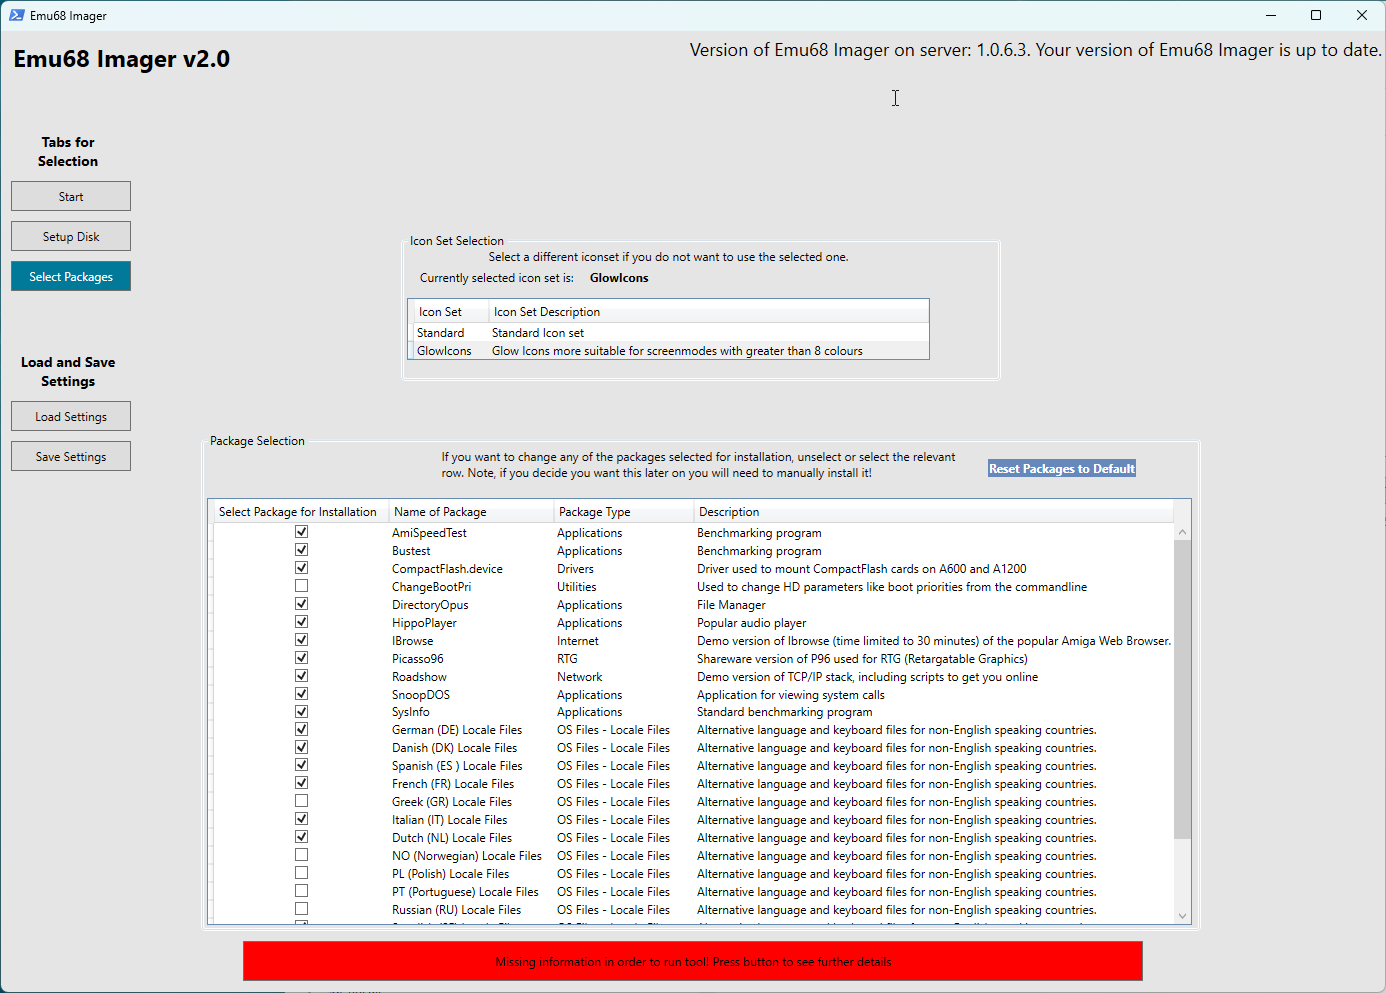
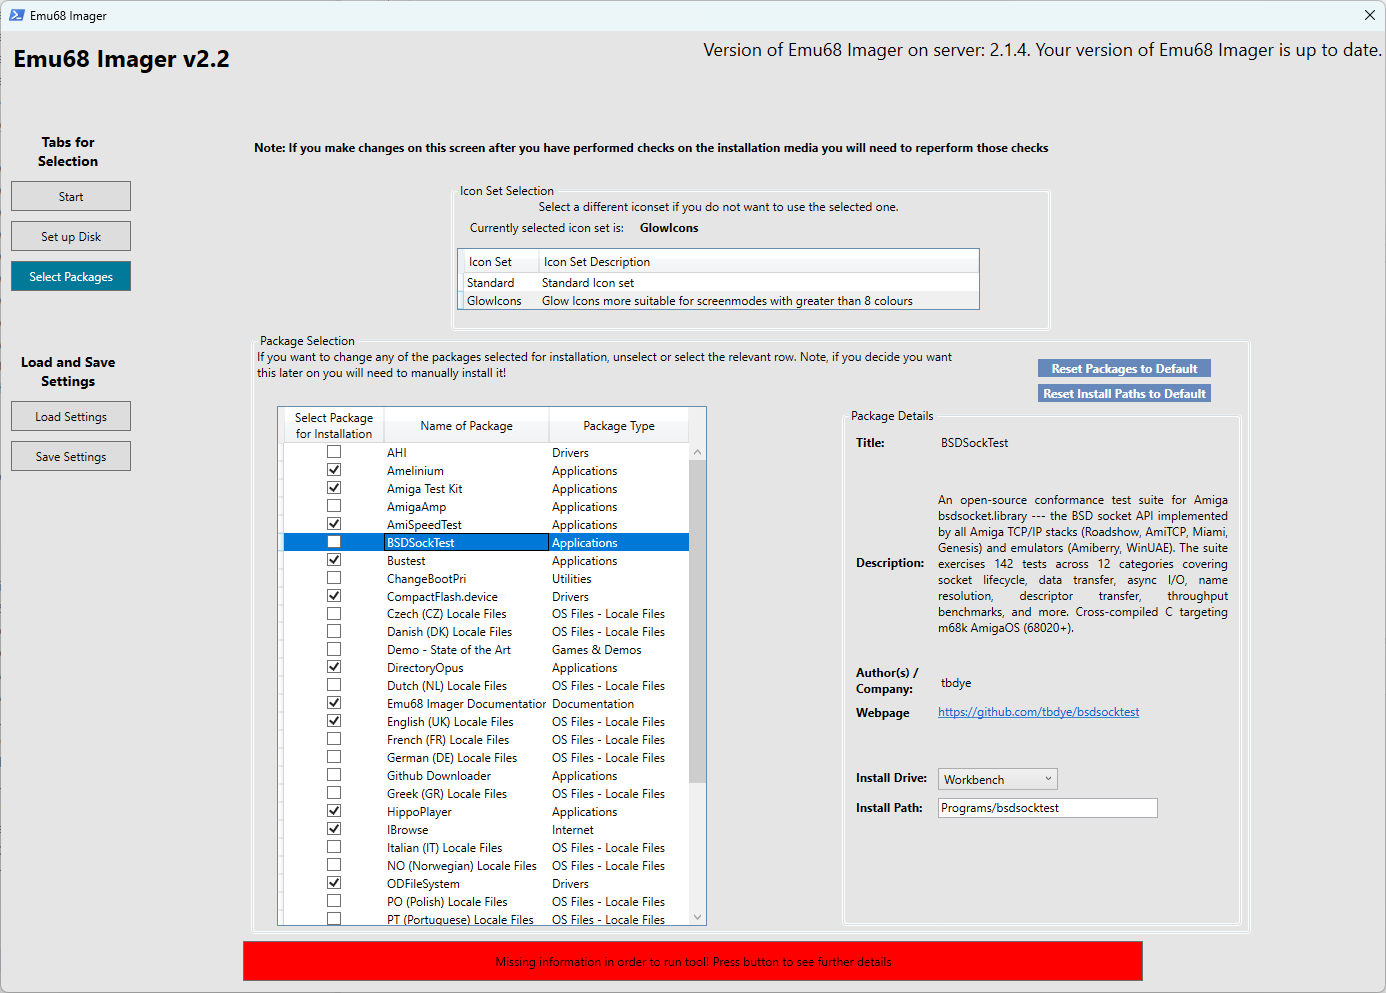
Updates for 2.2

diff --git a/docs/instructions.md b/docs/instructions.md
@@ -34,6 +34,10 @@ This the start page where you set up the environment you wish to install. It als
 
 ![Emu68 Imager Screenshot](images/Version2/StartupPageAdvanced.png)
 
+#### Emu68 Selection
+
+As of version 2.2, you are able to select different Emu68 versions via a drop down menu in the top left (for example either the latest release versus beta versions of Emu68). The available versions will change based on the Emu68 development process.
+
 #### OS Selection
 
 The imager tool supports five flavours of AmigaOS:
@@ -73,7 +77,11 @@ Please note that only A1200 versions of the Kickstart ROMs are supported as thes
 
 You will then need to click the `Check` button and the imager tool will then search this location and locate the correct Kickstart file based on its contents, so file names are not needed to match.
 
+![Checked Roms Screenshot](images/Version2/CheckRoms.png)
+
 When the tool has searched for the Kickstarts, you will be provided with a message showing the Kickstart that has been located or a message advising you that the Kickstart cannot be found.
+
+As of version 2.2, Emu68 Imager will also look for suitable Kickstart ROMs to include within the Devs:Kickstart folder for use in WHDLoad. If any are found they will be copied and renamed in accordance with WHDLoad requirements. 
 
 #### Workbench Media Install Images
 
@@ -142,9 +150,25 @@ You must select a screenmode compatible with your amiga! For example, do not sel
 
 As of version 2.1, if you have a Framethrower, you can add the unicam settings required to use it. Currently, the settings can only be added if you have selected a RTG screenmode as  booting into a native mode is still not 100% working.  
 
-You can also configure some of the basic Unicam settings. This will be exapanded over time - remember you can edit the cmdline.txt settings at any point manually.
+You can also configure some of the basic Unicam settings. Bear in mind that some settings such as cropping would require you to actually see the output on your screen in order to determine the correct settings for your display so are not contained within  Emu68 Imager. Remember you can edit the cmdline.txt (for Emu68 version 1.0.7) or config.txt (for Emu68 versions 1.1 and higher) settings at any point manually as well as via the Unicam tool which is contained in the PiStorm folder.
 
 ![UnicamConfiguration](images/Version2/UnicamSettings.png)
+
+#### MUI Version
+
+As of version 2.2, you can now choose if you want MUI 3.8 vs 5.0. 
+
+#### TCP/IP Stack
+
+As of version 2.2 multiple TCP/IP stacks are available and are shown below:
+
+| TCP/IP Stack | Type / Licensing | Details & Restrictions |
+| :--- | :--- | :--- |
+| **Roadshow (demo)** | Commercial (Demo) | Considered the de facto standard for AmigaOS; modern and actively maintained. It is a commercial product but we were graciously allowed to distribute the demo version with the tool. The included demo version is restricted to **15 minutes** of online time per session, requiring a reboot to reconnect. Please consider buying the unrestricted version from the author if you wish to use it.|
+| **MiamiDX** | Commercial / Proprietary (Demo) | A popular alternative to Roadshow preferred by many classic Amiga users. The provided demo version is subject to a time-based connection timeout. |
+| **lwip-amiga** | Open Source (BSD-3-Clause) | A modern, high-performance TCP/IP stack based on lwIP. Designed for AmigaOS 3.2+ with heavy hardware acceleration (such as PiStorm/Emu68), delivering fast transfer speeds via its native `netdev` interface and standard SANA-II drivers. |
+| **AmiTCP / AmiTCP NG** | Open Source (GPL-2) | **AmiTCP 3.0b2** is a classic, lightweight, free TCP/IP stack (1994). **AmiTCP 4.x / NG** represents updated versions providing standard `bsdsocket.library` compatibility. |
+| **AmiNetXDuo** | Open Source (MIT) | A modern IPv4 and IPv6 TCP/IP stack based on Eclipse ThreadX NetX Duo. Compatible with Roadshow configuration files, supports standard SANA-II drivers, and features a low memory footprint (offers Full, Minimal, and Micro profiles). |
 
 #### Configuring WiFi
 
@@ -152,6 +176,11 @@ The imager tool gives you the option of configuring the Emu68 WiFi driver (wifip
 
 Please bear in mind that your wifi name and password are stored on the image should you use this option! It is not mandatory to provide this information during the tool setup, and you can set it up or change it later on by using the **Wifi Config** icon in the **PiStorm** folder on your Workbench partition.
 
+#### Emu68 Settings
+
+![Emu68Settings](images/Version2/Emu68Settings.png)
+
+Depending on the version of Emu68 chosen, various settings can be enabled or disabled such as whether you want to enable buptest or disable the Low Speed option configured by default (for users with SD card extenders)
 
 ### Setup Disk
 
@@ -197,7 +226,7 @@ if you have more granular requirements, you can of course use WinUAE, HST Imager
 
 ![Select Packages Screenshot](images/Version2/SelectPackages.png)
 
-This screen allows you to customise what is installed. You can choose between different icon sets where available (e.g. Standard versus GlowIcons). Additionally, if you want to customise which software is installed you can add/remove certain options. For example, if your language is not selected by default then you can choose to install it (as well as unselecting languages you do not wish to install). Take care when uninstalling things you might later need!
+This screen allows you to customise what is installed. You can choose between different icon sets where available (e.g. Standard versus GlowIcons). Additionally, if you want to customise which software is installed you can add/remove certain options. For example, if your language is not selected by default then you can choose to install it (as well as unselecting languages you do not wish to install). Take care when uninstalling things you might later need! As of version 2.2 you can also choose to install some packages in different locations or different drives.
 
 ### Load and Save Settings
 

diff --git a/docs/amigautilities.md b/docs/amigautilities.md
@@ -167,13 +167,6 @@ This will launch IBrowse with the documentation saved on the SD card (you don't 
 
 In addition to PiStorm tools we have also included a few essential/useful programs to complement your chosen AmigaOS.
 
-## Roadshow (demo) ##
-
-Roadshow TCP/IP stack is included because it is the only TCP/IP stack that is still maintained for Amiga. It is a commercial product but we were graciously allowed to distribute the demo version with the tool. 
-It is restricted to 15 minutes of online time, after which a reboot is required to connect again. 
-
-Please consider buying the unrestricted version from the author. More info in [Programs Used by the Tool](included.html#included-with-the-emu68-imager-tool)
-
 ## Directory Opus 4
 
 This is one of the more commonly used file management tools on the Amiga. It is the pinnacle of the double-panel browser genre and no Amiga installation should be without it. We have also provided additional functionality (such as archive extraction) so it is all set up and good to go.
